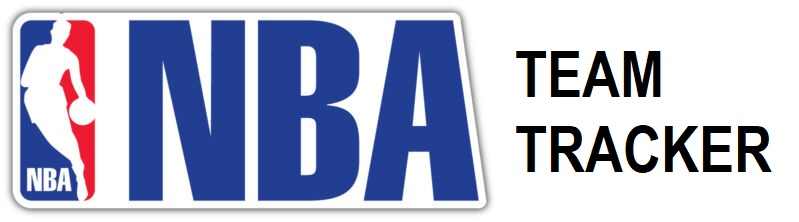
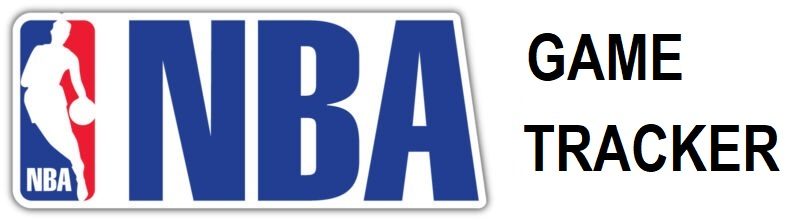
pushed front-end changes

Changed region(s): [[0.6308, 0.5405, 0.9912, 0.7838], [0.6308, 0.1351, 0.8711, 0.4595]]

diff --git a/script.js b/script.js
@@ -1,31 +1,55 @@
-const ballApi = "https://www.balldontlie.io/api/v1/"
+
+var DropButton = document.getElementById('drop-box');
+
+function DropButton() {
+    fetch('https://www.balldontlie.io/api/v1/teams')
+    .then((response) => response.json())
+    .then((result) => {
+        result.data.forEach(team => {
+            for (let name in team) {
+                if (team.name =="Jazz"){
+                    console.log(team.id, team.name)
+                }
+            }
+            
+        });
+    })
+}
+
+//DropButton.addEventListener('click')
+
+//API Link
+const ballApi = "https://www.balldontlie.io/api/v1/";
+
+//Get Current Date for API > Games Schedule query
 const today = new Date();
 const dateStr = today.getFullYear() + "-" + String(today.getMonth() + 1).padStart(2, '0') + "-" + String(today.getDate()).padStart(2, '0');
+
+//Array to hold all teams and their IDs from the API. This is currently being console logged
 const teamArr = [];
 
-const getTeamsApi = () => {
+//get all teams, and build the array of teams/ids. This creates an array of objects for reference
+//just need to push this result to the dropdown menu(s)
+function getTeamsApi(){
     fetch("https://www.balldontlie.io/api/v1/teams")
     .then((response) => response.json())
     .then((result) => {
         console.log(result.data);
         let teamObj = {};
         result.data.forEach(team => {
-            // for (let name in team) {
-                // if (team.name == "Jazz"){
-                //     console.log(team.id, team.name);
                 if (!teamArr.includes(team.name)) {
-                    teamObj = {}
+                    teamObj = {};
                     teamObj.id = team.id;
                     teamObj.name = team.name;
                     teamArr.push(teamObj);
                 }
-                // }
-            // }
         })
     })
 }
 
-const getScheduleApi = (teamId) => {
+//This function gets the entire upcoming schedule for a certain team, and organizes the array of objects
+//by date, ascending (shortest # days to the game is first on the list)
+function getScheduleApi(teamId) {
     fetch(ballApi + "games?per_page[]=100&start_date=" + dateStr + "&team_ids[]=" + teamId)
     .then((response) => response.json())
     .then((result) => 
@@ -33,10 +57,26 @@ const getScheduleApi = (teamId) => {
         result.data.sort(function(a, b) {
             return new Date(a.date) - new Date(b.date);
           });
-        console.log(result.data)
+        console.log(result.data);
     })
 }
 
+//Get players, issue below
+//can't get players per team? Will need to find a way to display all players on a certain team without querying the entire db
+function getPlayersApi(playerName, teamId) {
+    fetch(ballApi + "players?search=" + playerName)
+    .then((response) => response.json())
+    .then((result) => 
+    {
+        console.log(result);
+        for (let player in result.data) {
+            if (result.data.teamId)
+    }
+    })
+}
+
+//testing - these console log the results
 getTeamsApi();
 getScheduleApi(29);
-console.log(teamArr)
+getPlayersApi(playerName, 0);
+console.log(teamArr);

diff --git a/index.html b/index.html
@@ -28,15 +28,15 @@
 
         <div class="select is-medium is-primary my-6" id="drop-box">
             <select>
-                <option>Select NBA Team</option>
-                <option>Only Utah Jazz, sorry</option>
+                <option>Select NBA Player</option>
+                <option>Player1</option>
             </select>
         </div>
 
         <div class="navbar-menu" ID="nav-links">
             <div class="navbar-end">
-                <a class="navbar-item is-size-5">Saved Teams</a>
-                <a class="navbar-item is-size-5">Saved Games</a>
+                <a class="navbar-item is-size-5 has-text-white">Saved Teams</a>
+                <a class="navbar-item is-size-5 has-text-white">Saved Games</a>
             </div>
         </div>
     </nav>
@@ -59,8 +59,8 @@
           
           <div class="select is-small is-primary my-1 is-size-5 mx-5">     
             <select>
-                <option>Select player</option>
-                <option>Player1</option>
+                <option>Team Stats</option>
+                <option>Player Stats</option>
             </select>
         </div>
         </div>
